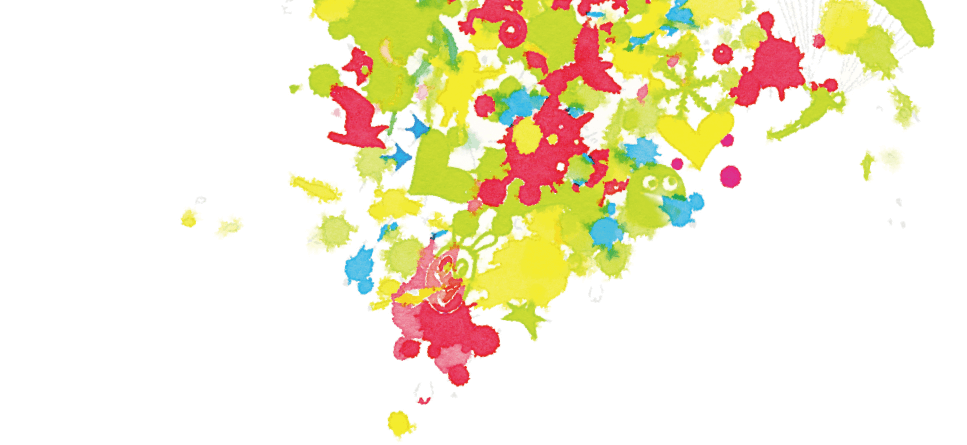
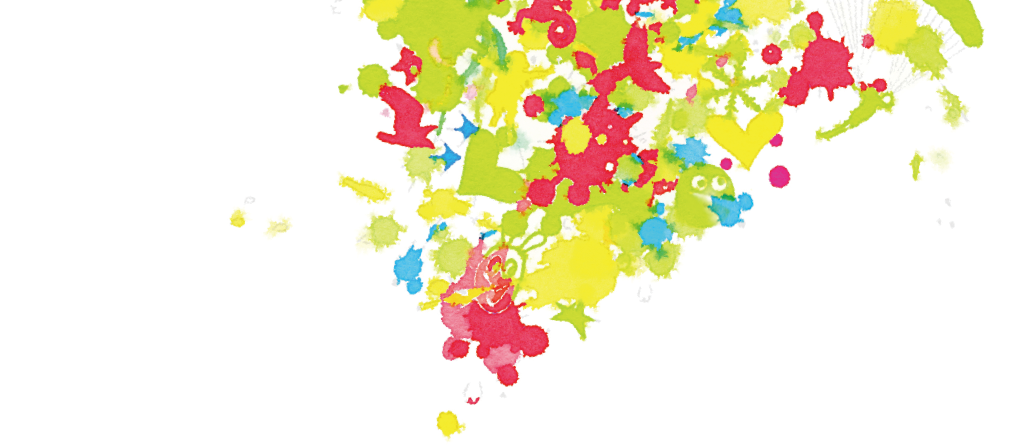
responsive hero image

Changed region(s): [[0.1861, 0.0, 0.9617, 0.8764], [0.4033, 0.8764, 0.4654, 0.9933], [0.8687, 0.3506, 0.9307, 0.409]]

diff --git a/styles.css b/styles.css
@@ -52,18 +52,38 @@ svg {
 }
 
 .hero-image {
-    background: url('/img/hero.png');
+    background-image: url('/img/hero.png');
     background-repeat: no-repeat;
-    height: 445px;
+    height: 446px;
+    background-size: 1017px 446px;
+    background-position: center top;
+    margin: 0 auto;
 }
 
+@media (-webkit-min-device-pixel-ratio: 2), (min-resolution: 192dpi) {
+    .hero-image {
+        background-image: url('/img/hero@2x.png');
+    }
+}
+
+@media screen and (max-width: 480px) {
+    .hero-image {
+        background-position: 47% top;
+    }
+}
 h1 {
     font-size: 65px;
     color: #000;
-    letter-spacing: 9.4px;
+    letter-spacing: 18.9px;
     font-family:'AvenirNextLTW01-UltraLi';
+    text-align: center;
 }
-
+@media screen and (max-width: 480px) {
+    h1 {
+       font-size: 44px;
+        letter-spacing: 14.5px;
+    }
+}
 .box-single-col {
     max-width: 150px;
     margin: 0 auto;

diff --git a/index.html b/index.html
@@ -3,6 +3,7 @@
 <head>
     <meta charset="UTF-8">
     <title>CAPELLA</title>
+    <meta name="viewport" content="width=device-width, initial-scale=1">
     <link href="/styles.css" media="screen, projection" rel="stylesheet" type="text/css"
           charset="UTF-8" />
     <script type="text/javascript" src="http://fast.fonts.net/jsapi/e357385e-353a-4177-8898-4f099d30dd5c.js"></script>
@@ -10,8 +11,9 @@
 <body>
 <div class="hero-image"></div>
 <main>
+    <h1>CAPELLA</h1>
     <article class="box-single-col">
-        <h1>CAPELLA</h1>
+
         <h2>Find your purpose<br/>Develop your people</h2>
         <p> Action Methods facilitation, coaching and team collaboration</p>
         <a href="mailto@contact@capella.co.uk">get in touch</a>
